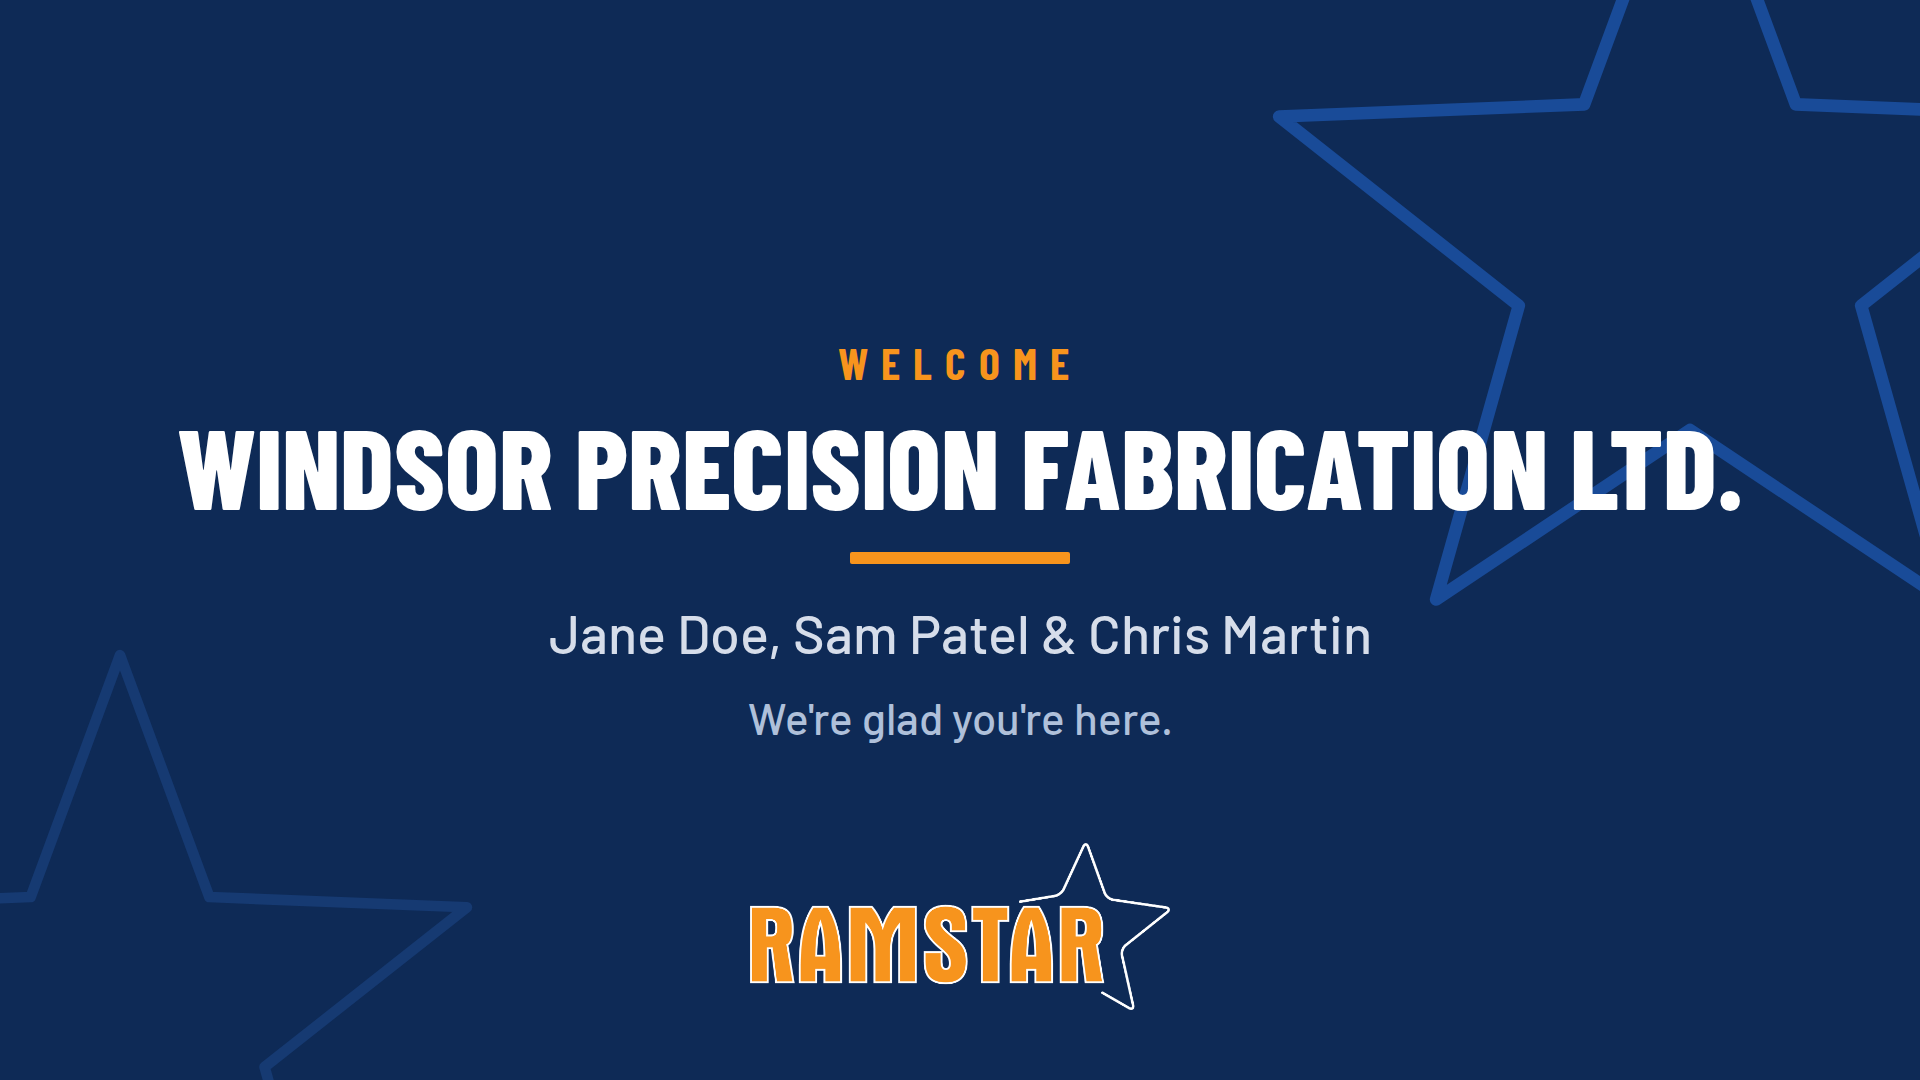
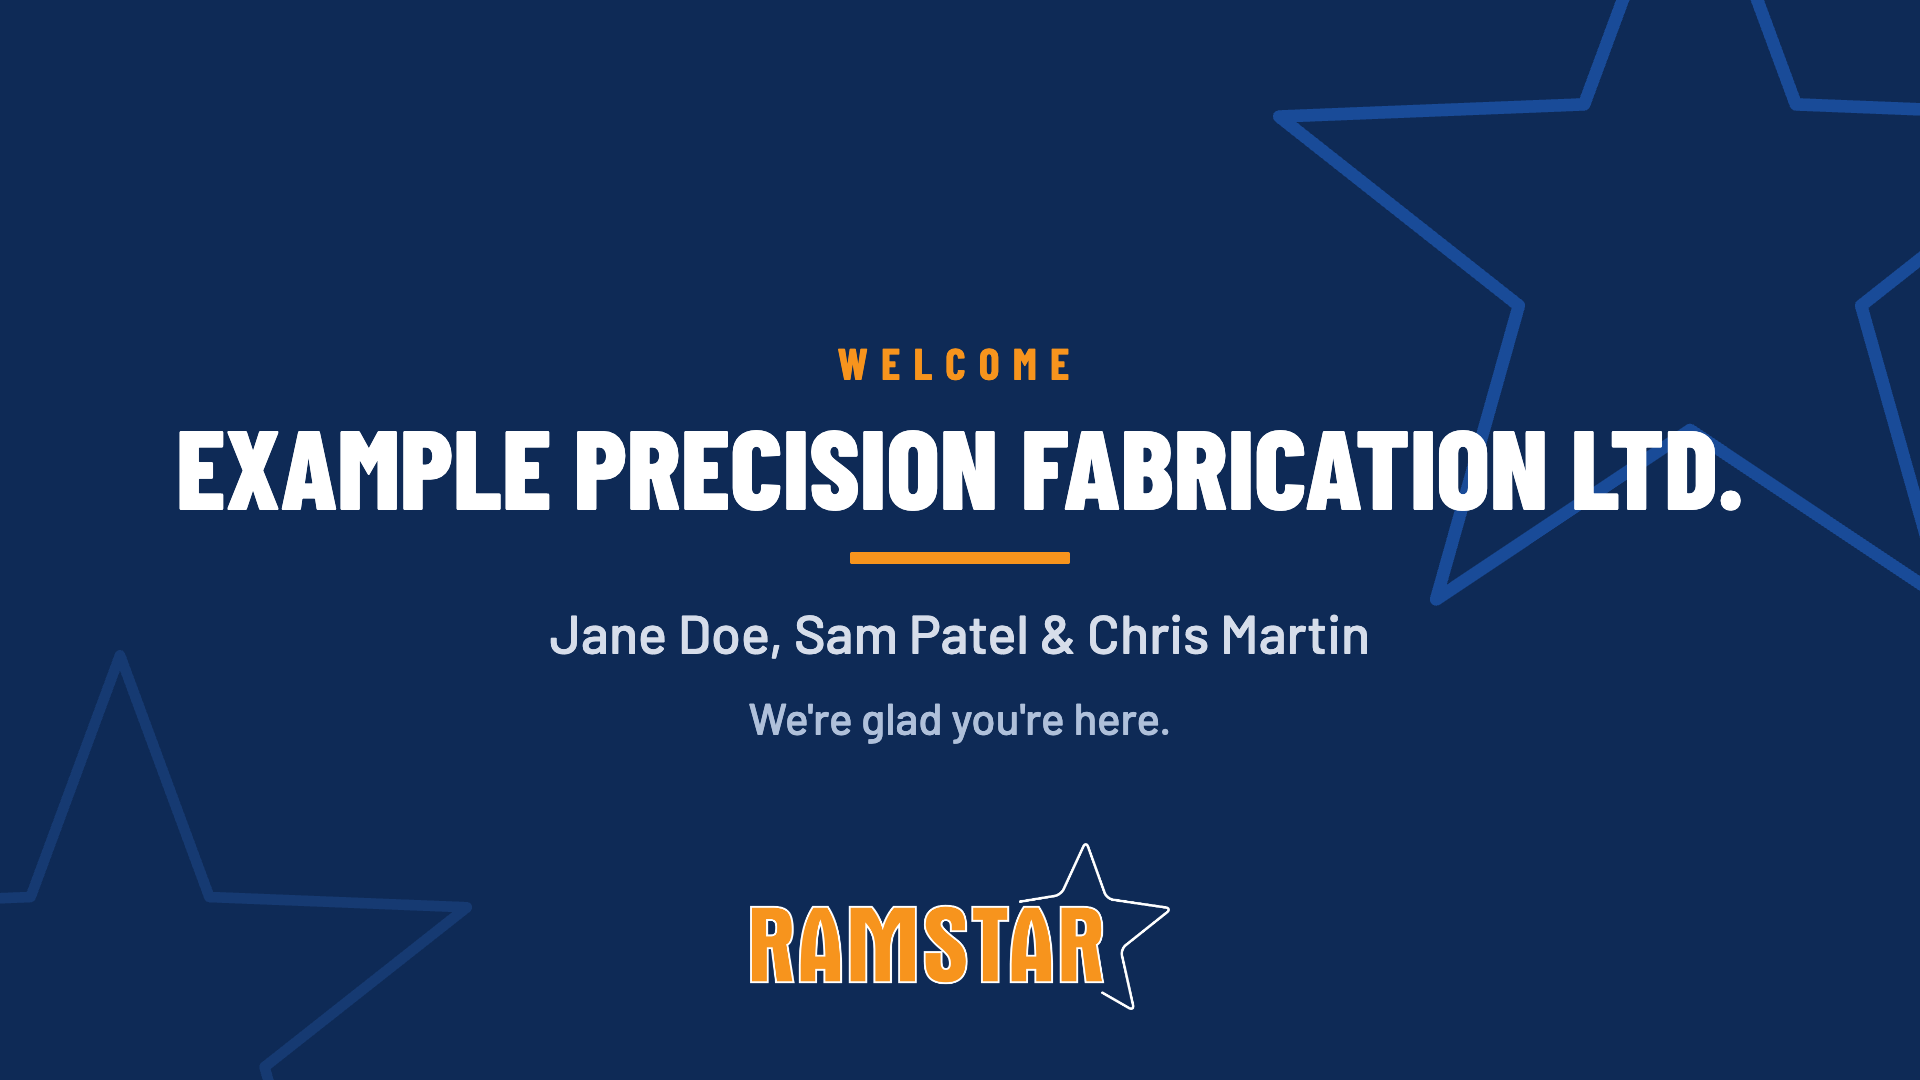
Welcome design reference: replace a real customer name with a placeholder

diff --git a/docs/design/welcome/welcome.html b/docs/design/welcome/welcome.html
@@ -4,7 +4,7 @@
 <meta charset="utf-8">
 <title>Welcome screen (design reference)</title>
 <!-- Design reference only, not part of the player. Canvas 1920x1080.
-     Try: ?guest=Windsor%20Precision%20Fabrication%20Ltd.&people=Jane%20Doe  or  ?guest=  (generic) -->
+     Try: ?guest=Example%20Precision%20Fabrication%20Ltd.&people=Jane%20Doe  or  ?guest=  (generic) -->
 <link rel="stylesheet" href="https://fonts.googleapis.com/css2?family=Barlow+Condensed:wght@600;700;800&family=Barlow:wght@500;600&display=swap">
 <style>body{margin:0;font-family:'Barlow',sans-serif}</style>
 </head>
